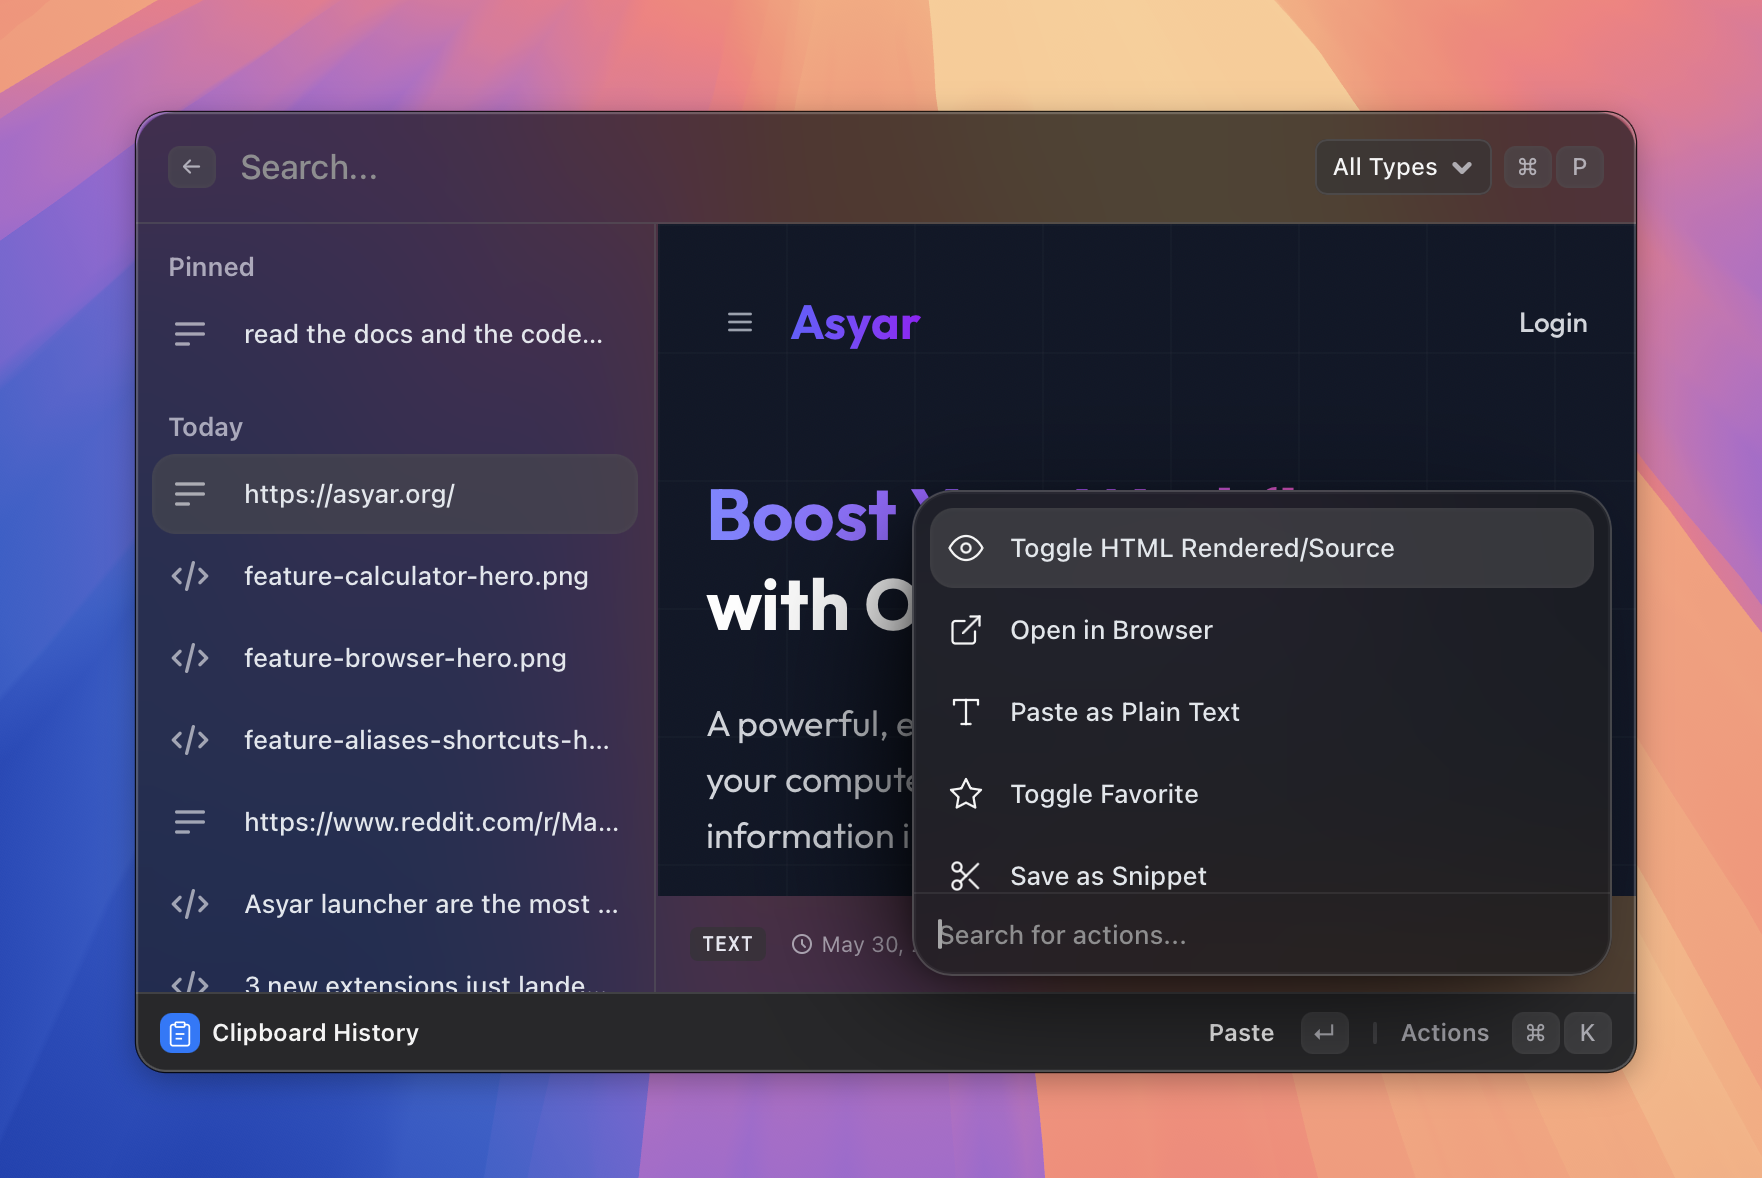
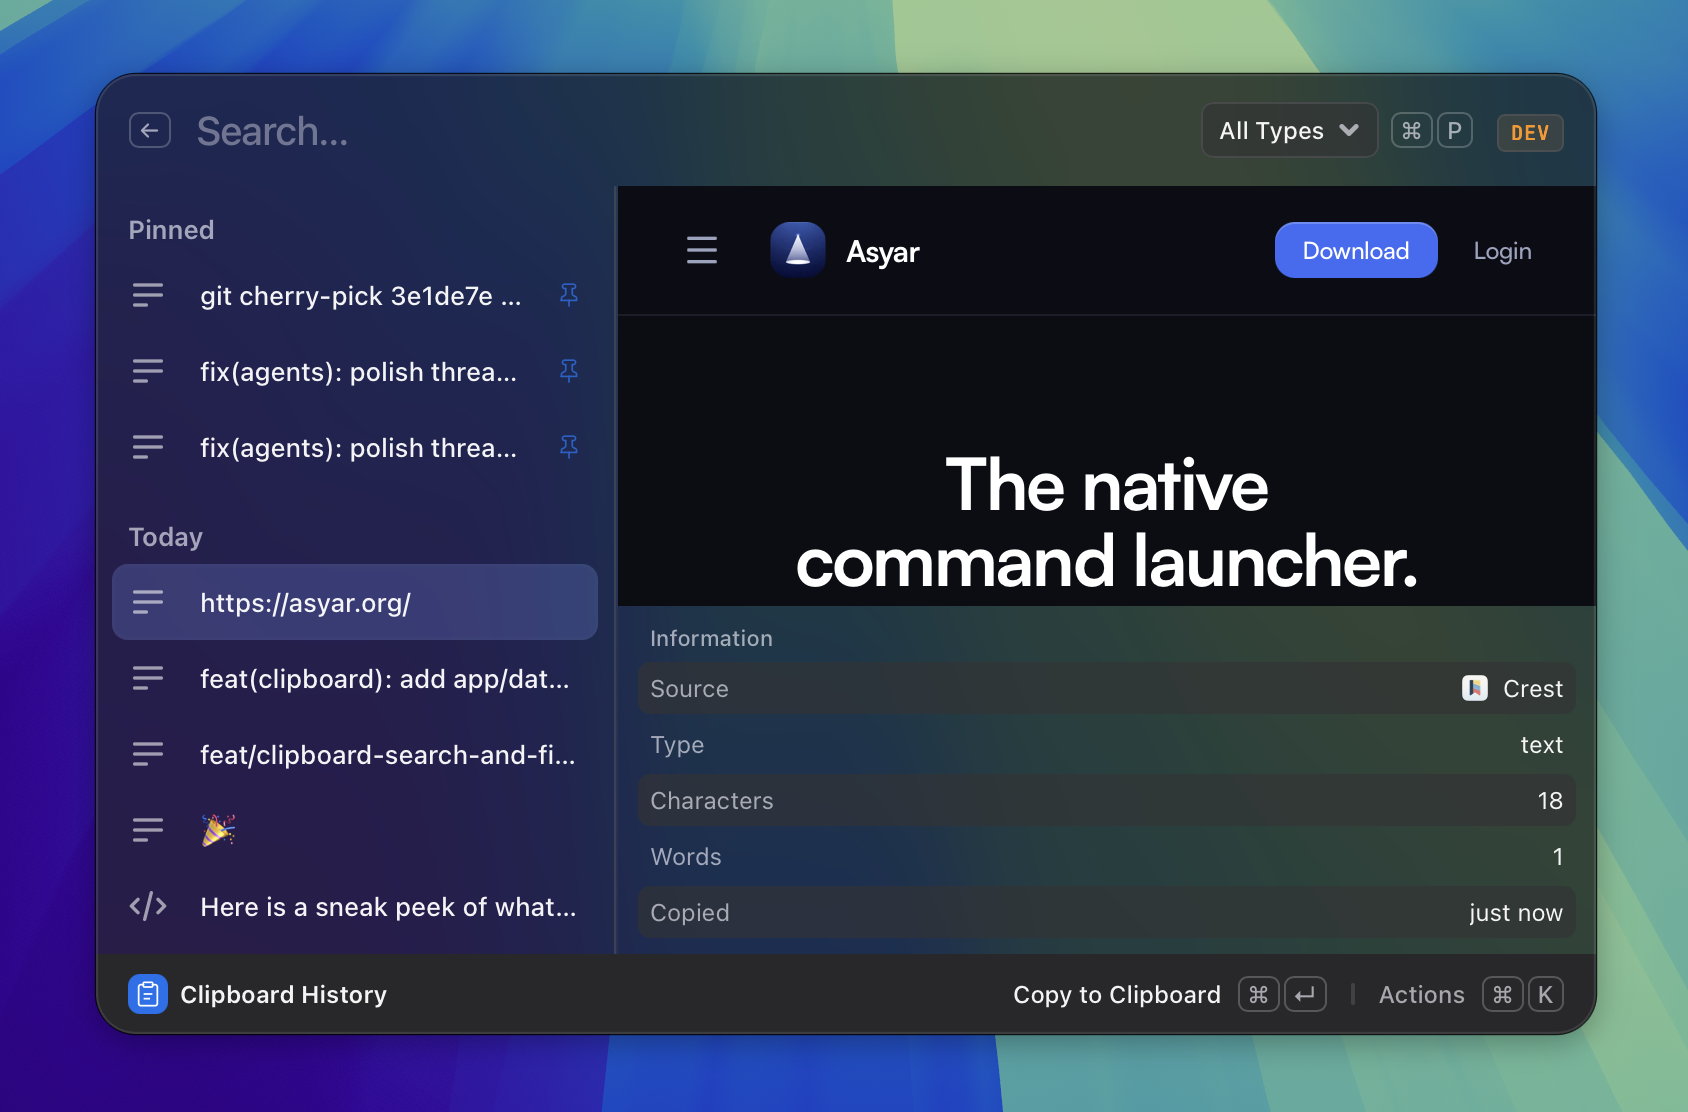
docs(clipboard): document app/date filters, search tokens, and accessory submenus

diff --git a/docs/reference/searchbar-accessory.md b/docs/reference/searchbar-accessory.md
@@ -63,17 +63,27 @@ Add a `searchBarAccessory` object to a view-mode command in
 
 ### Per-field reference
 
-| Field     | Type                 | Required | Description                                                                                                            |
-| --------- | -------------------- | -------- | ---------------------------------------------------------------------------------------------------------------------- |
-| `type`    | `"dropdown"`         | ✅       | Discriminator. Only `"dropdown"` in v1; reserves room for future types.                                                |
-| `options` | `{ value, title }[]` | ✅       | Non-empty list. `value` is what the extension receives; `title` is what the user sees. Both must be strings.           |
-| `default` | `string`             | ❌       | Pre-selected value on first invocation. Must be one of `options[].value`. If omitted, the first option is the default. |
+| Field     | Type                                 | Required | Description                                                                                                            |
+| --------- | ------------------------------------ | -------- | ---------------------------------------------------------------------------------------------------------------------- |
+| `type`    | `"dropdown"`                         | ✅       | Discriminator. Only `"dropdown"` in v1; reserves room for future types.                                                |
+| `options` | `SearchBarAccessoryDropdownOption[]` | ✅       | Non-empty list. See fields below.                                                                                      |
+| `default` | `string`                             | ❌       | Pre-selected value on first invocation. Must match a selectable option value. If omitted, the first option is default. |
+
+Each `SearchBarAccessoryDropdownOption` entry supports:
+
+| Field      | Type                                 | Required | Description                                                                                              |
+| ---------- | ------------------------------------ | -------- | -------------------------------------------------------------------------------------------------------- |
+| `value`    | `string`                             | ✅       | Identifier sent to `onChange` when selected (or used as the submenu key when `children` is present).     |
+| `title`    | `string`                             | ✅       | Primary label shown to the user.                                                                         |
+| `children` | `SearchBarAccessoryDropdownOption[]` | ❌       | Optional nested submenu options rendered in-place inside the popover when the user opens this row.       |
+| `selected` | `boolean`                            | ❌       | Optional explicit checkmark state (useful for multi-dimension filter menus alongside the main `value`).  |
+| `subtitle` | `string`                             | ❌       | Optional right-aligned hint shown on the row (for example, the active child filter label or item count). |
 
 ### Schema constraints
 
 - `options` must be a non-empty array.
-- Every option must have string `value` and `title` fields.
-- `default` (when present) must equal one of `options[].value`.
+- Every option must have string `value` and `title` fields. Nested `children` options follow the same rule.
+- `default` (when present) must equal a selectable option `value` (including leaf options inside `children`).
 - The accessory is only valid on commands with `mode: "view"`. Mixing it
   with `mode: "background"` is a parse error.
 - Validated by both the SDK CLI's manifest parser at build time and the
@@ -83,14 +93,15 @@ Add a `searchBarAccessory` object to a view-mode command in
 
 1. The user activates the view-mode command.
 2. The dropdown appears in the top-right of the search bar with the
-   current selection visible.
+   current selection (or custom summary `buttonTitle`) visible.
 3. **⌘P** (Cmd+P / Ctrl+P) opens the popover.
 4. A filter input at the top of the popover lets the user narrow options
    by typing — substring match on the option's `title`.
-5. **Arrow keys** navigate the (filtered) options. **Enter** selects.
+5. **Arrow keys** (`↑` / `↓`) navigate the (filtered) options. **Enter** selects.
    **Escape** closes the popover and refocuses the trigger button.
    **Tab** closes.
-6. Clicking the trigger button toggles the popover.
+6. **In-place submenus**: If an option defines `children`, pressing `Enter`, `ArrowRight`, or clicking it replaces the list in-place with that child list and shows a `←` back header at the top. Pressing `Escape`, pressing `Backspace` or `ArrowLeft` when the filter input is empty, or clicking the `←` header returns to the parent list instead of closing the popover.
+7. Clicking the trigger button toggles the popover.
 
 ## SDK API
 
@@ -140,7 +151,7 @@ Two use cases:
    ```
 
 Both fields are optional; you can pass either, both, or call `set({})`
-as a no-op.
+as a no-op. In the launcher host (`searchBarAccessoryService.set` / `syncViewState`), an optional `buttonTitle?: string` override is also supported to show a combined summary label (such as `Images · Safari · Today`) when multiple submenu dimensions are active.
 
 ### `clear(): Promise<void>`
 

diff --git a/docs/guide/features/clipboard-history.md b/docs/guide/features/clipboard-history.md
@@ -17,17 +17,41 @@ Asyar also records which app each item came from, so you can see the source appl
 
 1. Open Asyar and type `clip` — or select **Clipboard History** from search results.
 2. The clipboard view opens. Use `↑` / `↓` to move through the list.
-3. Type in the search bar to filter. Full-text search runs across all text entries.
-4. To narrow by content type, click the dropdown in the search bar (or press `⌘P`) and choose **All Types**, **Text**, **Images**, or **Files**.
+3. Type in the search bar to filter. Full-text search runs across all text entries as well as the **source application** (app name, bundle ID, and window title), and handles URLs, file paths, and punctuation (`/`, `-`) cleanly.
+4. To filter across your **entire stored history** by **Type**, **Source App**, or **Date**, click the dropdown in the search bar (or press `⌘P` / `Ctrl+P`). Any filter you pick also appears as a token in the search bar.
 5. Press `Enter` (`↵`) to paste the selected item into the app that was in focus before you opened Asyar, or `⌘↵` (`Ctrl+↵` on Windows/Linux) to copy it back to your clipboard without pasting.
 6. Press `⌃⌘↵` (`Ctrl+Shift+↵` on Windows/Linux) to paste as plain text, stripping any formatting.
 7. To paste several items at once, `⌘Click` (or `Ctrl+Click` on Windows/Linux) each item you want, or hold `⌘`/`Ctrl` and press `↑`/`↓` to sweep through a range — then press `Enter` to merge them into a single paste.
+
+## Filtering & search tokens
+
+![Filtering clipboard history by app and date](../../images/feature-clipboard-filters.png)
+_Figure: filtering clipboard history by source app and date range using `⌘P` and search tokens._
+
+The filter menu (`⌘P`) and the search bar work together in both directions:
+
+- **Pick in `⌘P` -> appears in the search bar**: Choosing **Images**, **Filter by App**, or **Filter by Date** in `⌘P` automatically adds or updates the matching token (like `type:images`, `app:"Antigravity IDE"`, or `date:30d`) in the search bar and returns focus to the input so you can keep typing.
+- **Type in the search bar -> updates `⌘P`**: Typing or editing filter tokens directly in the search bar updates the checkmarks and button label (such as `Antigravity IDE · Last 30 Days`) inside `⌘P` in real time.
+- **In-place submenus inside `⌘P`**: Choose **Filter by App** or **Filter by Date** (`Enter`, `→`, or click) to drill into that list in place. A `←` back header appears at the top — press `Esc`, `⌫` or `←` (when the filter box is empty), or click the `←` header to return to the main filter menu.
+
+You can type any of these tokens directly in the search bar, alone or combined with search words (for example, `app:"Antigravity IDE" date:30d StreamDispatcher`):
+
+| Token                                    | What it filters                                                    |
+| ---------------------------------------- | ------------------------------------------------------------------ |
+| `type:text`, `type:images`, `type:files` | Narrow results to text/rich text, images, or copied files          |
+| `app:Safari`, `app:"Antigravity IDE"`    | Match items copied from an app by name or bundle ID (quote spaces) |
+| `date:today`, `date:yesterday`           | Items copied today or yesterday                                    |
+| `date:7d`, `date:30d`, `date:YYYY-MM-DD` | Items from the last 7 days, last 30 days, or a specific date       |
+| `after:YYYY-MM-DD`, `after:7d`           | Items copied on or after the given date or relative window         |
+
+All filters run directly against your local SQLite history database, so older entries beyond the first 100 items are always included.
 
 ## Shortcuts & actions
 
 | Action                          | How                    |
 | ------------------------------- | ---------------------- |
 | Paste                           | `↵` (`Enter`)          |
+| Filter by Type, App, or Date    | `⌘P` (`Ctrl+P`)        |
 | Copy to Clipboard               | `⌘↵` (`Ctrl+↵`)        |
 | Paste as Plain Text             | `⌃⌘↵` (`Ctrl+Shift+↵`) |
 | Pin / Unpin (Toggle Favorite)   | `⌘.` (`Ctrl+.`)        |

diff --git a/docs/guide/keyboard-shortcuts.md b/docs/guide/keyboard-shortcuts.md
@@ -94,6 +94,7 @@ Built-in features declare Raycast-aligned shortcuts while their view is active. 
 
 | Shortcut                      | What it does                               |
 | ----------------------------- | ------------------------------------------ |
+| `⌘P`                          | Filter by type, source app, or date        |
 | `↵`                           | Paste selected item (or merge & paste)     |
 | `⌘↵`                          | Copy selected item to clipboard            |
 | `⌃⌘↵` (`Ctrl+Shift+↵` Win/Ln) | Paste as plain text                        |
